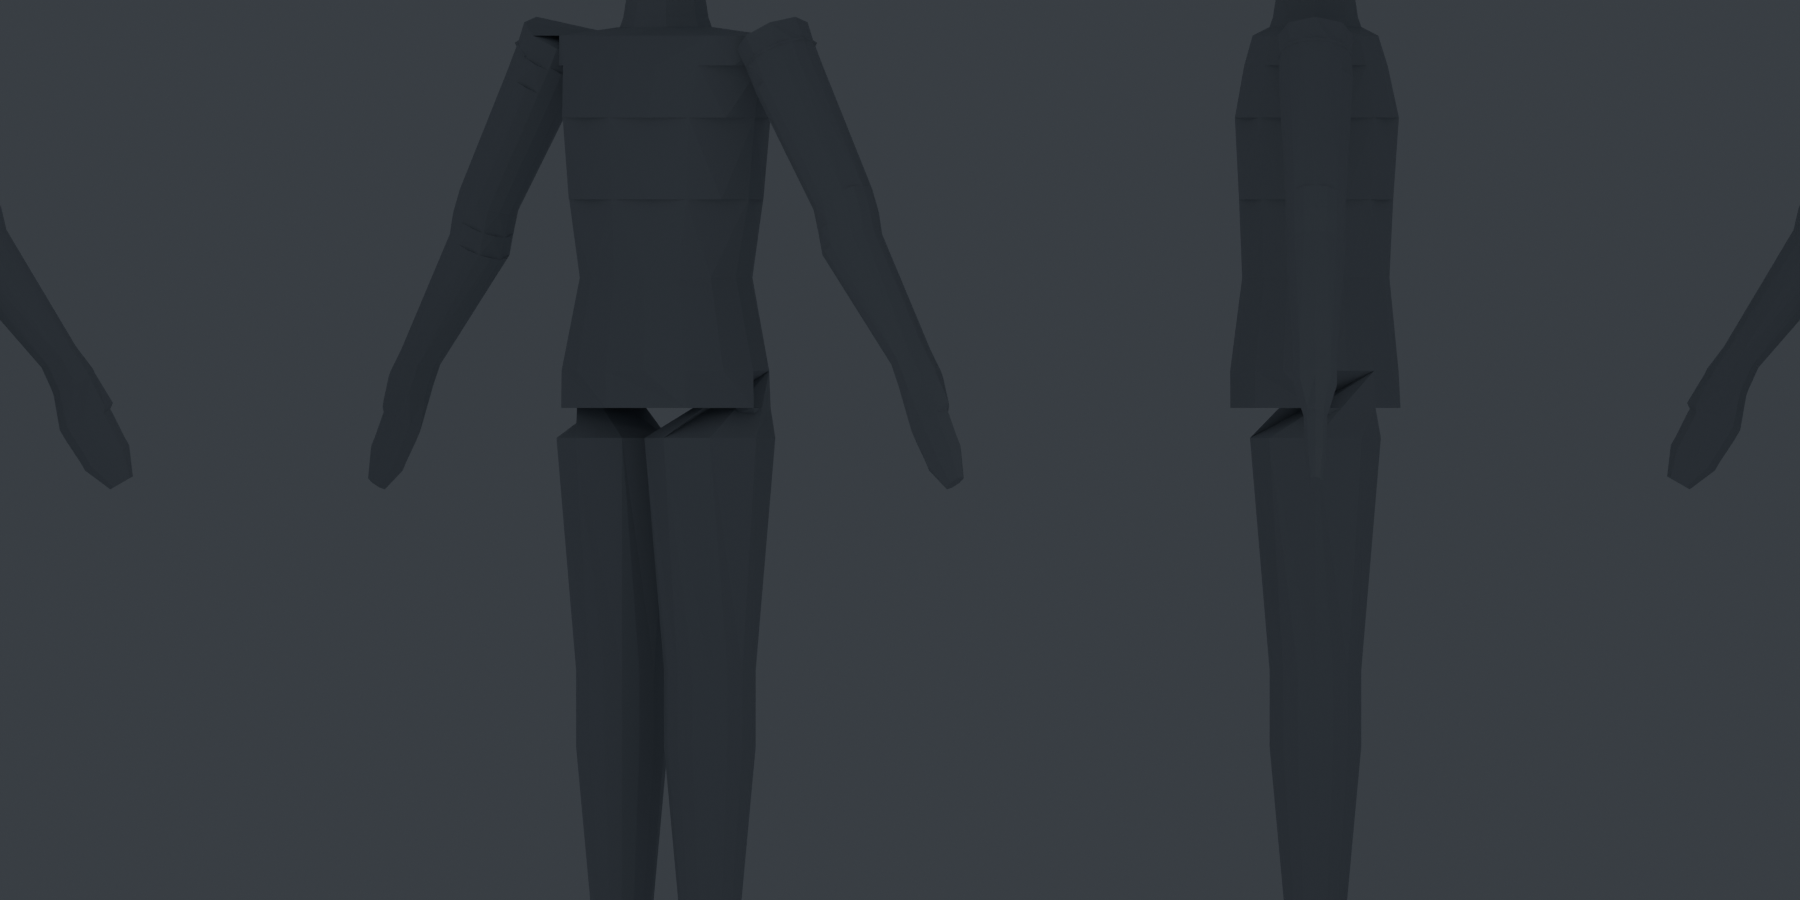
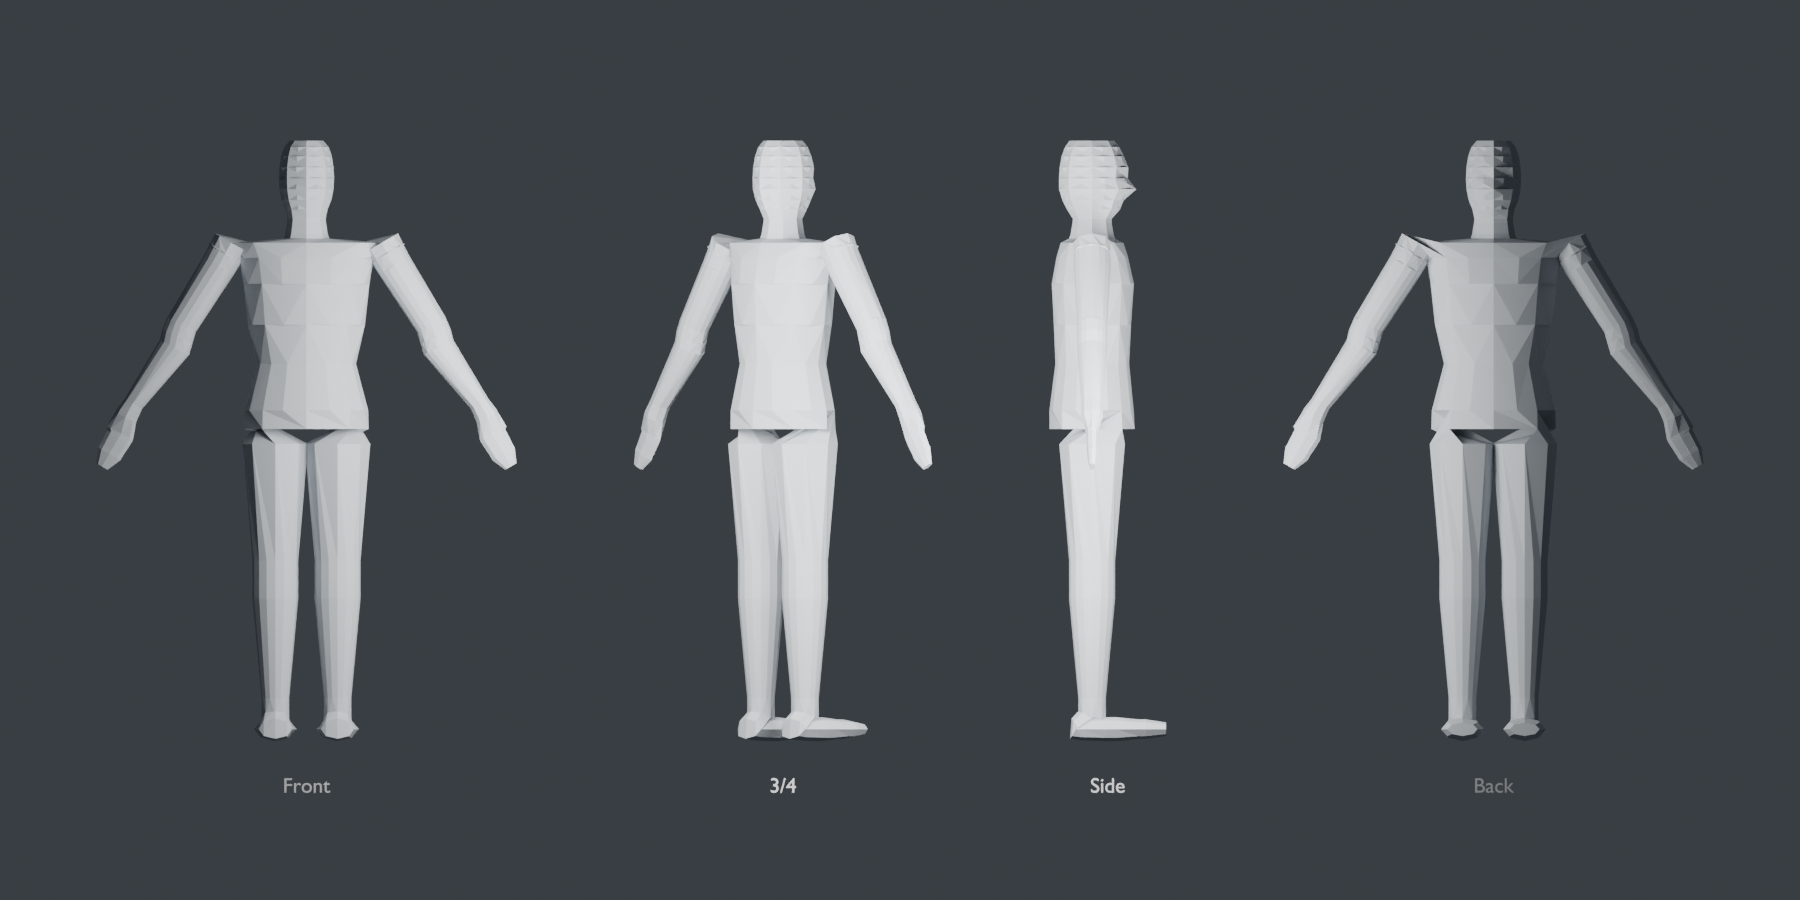
Fix Human review projection and lighting with camera regression checks

diff --git a/scripts/render_human_review.py b/scripts/render_human_review.py
@@ -26,6 +26,7 @@ from pathlib import Path
 
 import bpy
 from mathutils import Vector
+from bpy_extras.object_utils import world_to_camera_view
 
 
 REPO_ROOT = Path(__file__).resolve().parents[1]
@@ -136,16 +137,19 @@ def _add_lighting(center_z, scene_width, model_height):
     size = max(model_height, scene_width * 0.35)
 
     key_data = bpy.data.lights.new("Key", type="AREA")
-    key_data.energy = 1800.0
+    # Human vertices are in centimeters; light power scales with distance squared.
+    power_scale = (model_height / 1.8) ** 2
+    key_data.energy = 100.0 * power_scale
     key_data.shape = "RECTANGLE"
     key_data.size = size * 0.70
+    key_data.size_y = size * 0.70
     key = bpy.data.objects.new("Key", key_data)
     bpy.context.collection.objects.link(key)
     key.location = (-scene_width * 0.18, -model_height * 0.85, center_z + model_height * 0.25)
     _look_at(key, (0.0, 0.0, center_z))
 
     fill_data = bpy.data.lights.new("Fill", type="AREA")
-    fill_data.energy = 900.0
+    fill_data.energy = 50.0 * power_scale
     fill_data.size = size * 0.55
     fill = bpy.data.objects.new("Fill", fill_data)
     bpy.context.collection.objects.link(fill)
@@ -153,40 +157,24 @@ def _add_lighting(center_z, scene_width, model_height):
     _look_at(fill, (0.0, 0.0, center_z))
 
 
-def _validate_camera_frame(camera, mesh_objects, scene):
-    """Fail before rendering if generated Human vertices are outside the camera.
-
-    A prior version placed the orthographic camera farther away as the contact
-    sheet became wider. With centimeter-scale Human geometry that could move the
-    subject beyond Blender's default far clipping plane and still produce a
-    technically successful, empty PNG. This check protects both clipping depth
-    and orthographic framing.
-    """
-    camera_inverse = camera.matrix_world.inverted()
-    aspect = scene.render.resolution_x / float(scene.render.resolution_y)
-    half_vertical = camera.data.ortho_scale * 0.5
-    half_horizontal = half_vertical * aspect
-    visible_vertices = 0
-
-    for obj in mesh_objects:
-        for vertex in obj.data.vertices:
-            world = obj.matrix_world @ vertex.co
-            local = camera_inverse @ world
-            depth = -local.z
-            if not (camera.data.clip_start < depth < camera.data.clip_end):
-                continue
-            if abs(local.x) > half_horizontal or abs(local.y) > half_vertical:
-                continue
-            visible_vertices += 1
-
-    expected_minimum = sum(len(obj.data.vertices) for obj in mesh_objects) * 0.90
-    if visible_vertices < expected_minimum:
-        raise RuntimeError(
-            "Human review camera does not contain enough generated geometry: "
-            "{} visible vertices, expected at least {:.0f}".format(
-                visible_vertices, expected_minimum
-            )
+def _validate_camera_frame(camera, review_objects, scene):
+    """Require every mesh vertex and label corner to fit the actual projection."""
+    for obj in review_objects:
+        points = (vertex.co for vertex in obj.data.vertices) if obj.type == "MESH" else (
+            Vector(corner) for corner in obj.bound_box
         )
+        for point in points:
+            projected = world_to_camera_view(scene, camera, obj.matrix_world @ point)
+            if not (
+                camera.data.clip_start < projected.z < camera.data.clip_end
+                and 0.01 <= projected.x <= 0.99
+                and 0.01 <= projected.y <= 0.99
+            ):
+                raise RuntimeError(
+                    "Human review object {} extends outside the camera: {}".format(
+                        obj.name, tuple(projected)
+                    )
+                )
 
 
 def _configure_scene(args, part):
@@ -225,7 +213,7 @@ def _configure_scene(args, part):
     for width in widths:
         centers.append(cursor + width * 0.5)
         cursor += width + gap
-    sheet_center = (centers[0] + centers[-1]) * 0.5
+    sheet_center = (cursor - gap) * 0.5
     positions = tuple(center - sheet_center for center in centers)
     total_width = cursor - gap
 
@@ -233,18 +221,20 @@ def _configure_scene(args, part):
     mesh_objects = []
     for view_name, angle, x in zip(VIEW_NAMES, VIEW_ROTATIONS_DEGREES, positions):
         obj = _make_mesh_object("Human " + view_name, part)
-        obj.location.x = x
+        x_bounds = rotated_bounds[len(mesh_objects)][0]
+        obj.location.x = x - (x_bounds[0] + x_bounds[1]) * 0.5
         obj.rotation_euler.z = math.radians(angle)
         obj.data.materials.append(material)
         mesh_objects.append(obj)
         _add_label(view_name, (x, -maximum_depth * 0.60, minimum[2] - model_height * 0.075), model_height * 0.035)
 
     aspect = args.resolution_x / float(args.resolution_y)
-    required_vertical_for_width = total_width / aspect
-    ortho_scale = max(model_height * 1.22, required_vertical_for_width * 1.12)
+    # With horizontal sensor fit, ortho_scale is frame width, not height.
+    ortho_scale = max(total_width * 1.12, model_height * 1.22 * aspect)
 
     camera_data = bpy.data.cameras.new("Review Camera")
     camera_data.type = "ORTHO"
+    camera_data.sensor_fit = "HORIZONTAL"
     camera_data.ortho_scale = ortho_scale
     camera_data.clip_start = 0.1
     # Orthographic framing does not require the camera to retreat with sheet
@@ -261,7 +251,8 @@ def _configure_scene(args, part):
 
     _add_lighting(center_z, total_width, model_height)
     bpy.context.view_layer.update()
-    _validate_camera_frame(camera, mesh_objects, scene)
+    review_objects = mesh_objects + [obj for obj in scene.objects if obj.type == "FONT"]
+    _validate_camera_frame(camera, review_objects, scene)
 
 
 def main():

diff --git a/tests/blender/test_human_review.py b/tests/blender/test_human_review.py
@@ -1,0 +1,46 @@
+# SPDX-License-Identifier: GPL-3.0-or-later
+import unittest
+from types import SimpleNamespace
+
+try:
+    import bpy
+except ModuleNotFoundError:
+    bpy = None
+
+
+@unittest.skipIf(bpy is None, "requires Blender")
+class HumanReviewCameraTests(unittest.TestCase):
+    def setUp(self):
+        from scripts import render_human_review
+        self.review = render_human_review
+
+    def tearDown(self):
+        self.review._clear_scene()
+
+    def configure(self, width=1800, height=900):
+        self.review._clear_scene()
+        args = SimpleNamespace(height_cm=180.0, weight_kg=95.0, body_type="average",
+                               resolution_x=width, resolution_y=height)
+        self.review._configure_scene(args, self.review._human_part(args))
+        return bpy.context.scene
+
+    def test_complete_models_and_labels_fit_wide_and_portrait_frames(self):
+        for width, height in ((1800, 900), (900, 1800)):
+            with self.subTest(width=width, height=height):
+                scene = self.configure(width, height)
+                self.assertEqual(len([obj for obj in scene.objects if obj.type == "MESH"]), 4)
+                self.assertEqual(len([obj for obj in scene.objects if obj.type == "FONT"]), 4)
+
+    def test_rejects_old_half_width_camera_frame(self):
+        scene = self.configure()
+        scene.camera.data.ortho_scale *= 0.5
+        with self.assertRaisesRegex(RuntimeError, "outside the camera"):
+            self.review._validate_camera_frame(
+                scene.camera, [obj for obj in scene.objects if obj.type == "MESH"], scene)
+
+    def test_rejects_far_plane_clipping(self):
+        scene = self.configure()
+        scene.camera.data.clip_end = 1.0
+        with self.assertRaisesRegex(RuntimeError, "outside the camera"):
+            self.review._validate_camera_frame(
+                scene.camera, [obj for obj in scene.objects if obj.type == "MESH"], scene)
